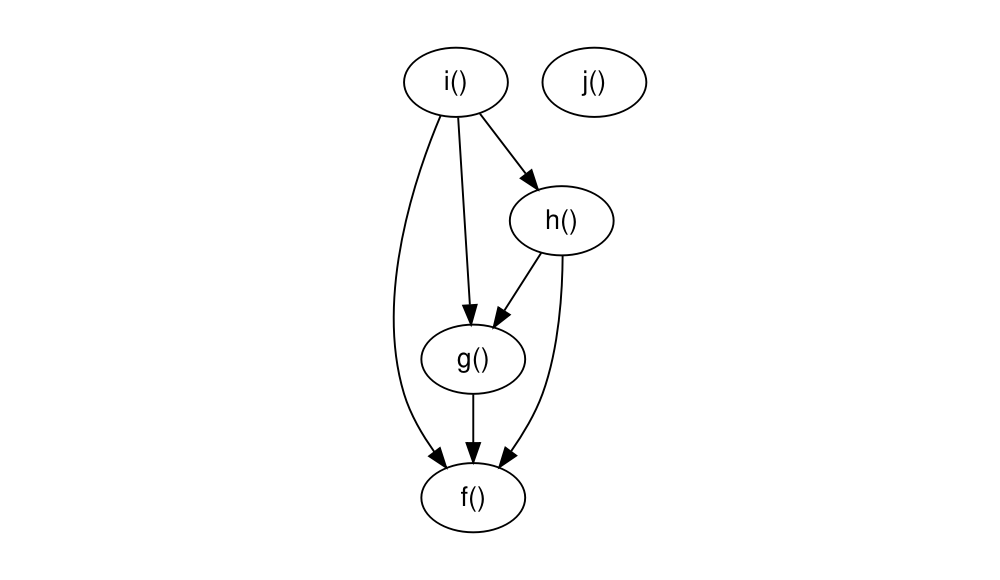
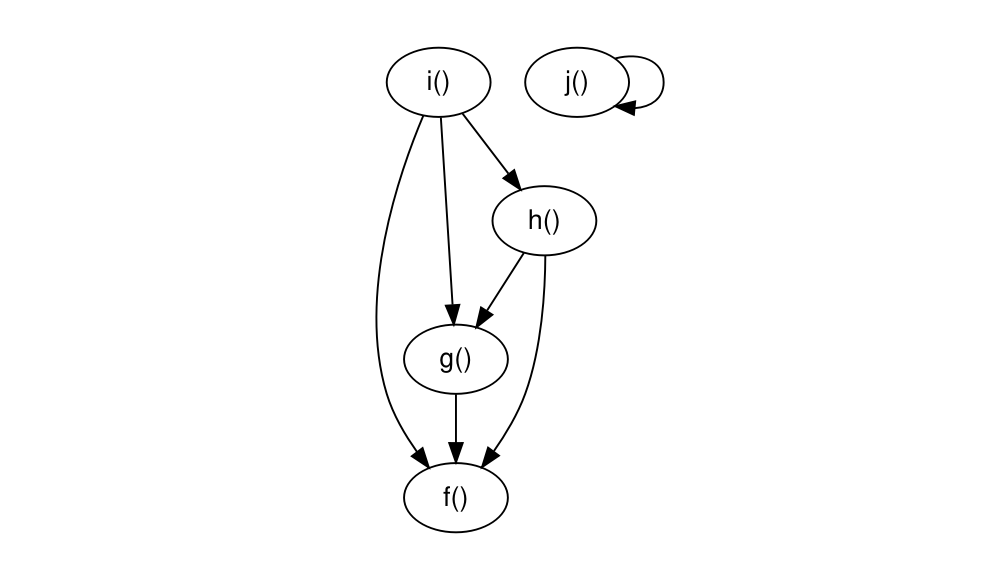
Include self-references in `function_matrix()`

diff --git a/README.md b/README.md
@@ -48,13 +48,13 @@ Printing the object will show the graphviz representation:
 
 ``` r
 fw
-#> # A `foodweb`: 5 nodes and 6 edges
-#> digraph 'foodweb of <env: 0x3a4cbc0>' {
+#> # A `foodweb`: 5 nodes and 7 edges
+#> digraph 'foodweb of <env: 0x2da1be0>' {
 #>   f()
 #>   g() -> { f() }
 #>   h() -> { f(), g() }
 #>   i() -> { f(), g(), h() }
-#>   j()
+#>   j() -> { j() }
 #> }
 ```
 
@@ -90,12 +90,12 @@ as a character vector.
 
 ``` r
 foodweb(as.text = TRUE)
-#> digraph 'foodweb of <env: 0x3a4cbc0>' {
+#> digraph 'foodweb of <env: 0x2da1be0>' {
 #>   "f()"
 #>   "g()" -> { "f()" }
 #>   "h()" -> { "f()", "g()" }
 #>   "i()" -> { "f()", "g()", "h()" }
-#>   "j()"
+#>   "j()" -> { "j()" }
 #> }
 ```
 
@@ -118,18 +118,15 @@ another environment using the `env` argument.
 funmat <- foodweb_matrix()
 
 funmat
-#> # A foodweb matrix: 5 functions and 6 links
+#> # A foodweb matrix: 5 functions and 7 links
 #>       CALLEE
 #> CALLER f g h i j
 #>      f 0 0 0 0 0
 #>      g 1 0 0 0 0
 #>      h 1 1 0 0 0
 #>      i 1 1 1 0 0
-#>      j 0 0 0 0 0
+#>      j 0 0 0 0 1
 ```
-
-Note that self-calls are ignored (`funmat["j", "j"]` is zero even though
-`j()` calls itself).
 
 ### `graphviz_spec_from_matrix()`
 
@@ -146,7 +143,7 @@ graphviz_spec
 #>   "g()" -> { "f()" }
 #>   "h()" -> { "f()", "g()" }
 #>   "i()" -> { "f()", "g()", "h()" }
-#>   "j()"
+#>   "j()" -> { "j()" }
 #> }
 ```
 
@@ -173,9 +170,9 @@ if (requireNamespace("tidygraph", quietly = TRUE)) {
   tg <- tidygraph::as_tbl_graph(foodweb())
   tg
 }
-#> # A tbl_graph: 5 nodes and 6 edges
+#> # A tbl_graph: 5 nodes and 7 edges
 #> #
-#> # A directed acyclic simple graph with 2 components
+#> # A directed multigraph with 2 components
 #> #
 #> # Node Data: 5 x 1 (active)
 #>   name 
@@ -186,11 +183,11 @@ if (requireNamespace("tidygraph", quietly = TRUE)) {
 #> 4 i    
 #> 5 j    
 #> #
-#> # Edge Data: 6 x 2
+#> # Edge Data: 7 x 2
 #>    from    to
 #>   <int> <int>
 #> 1     2     1
 #> 2     3     1
 #> 3     3     2
-#> # … with 3 more rows
+#> # … with 4 more rows
 ```
